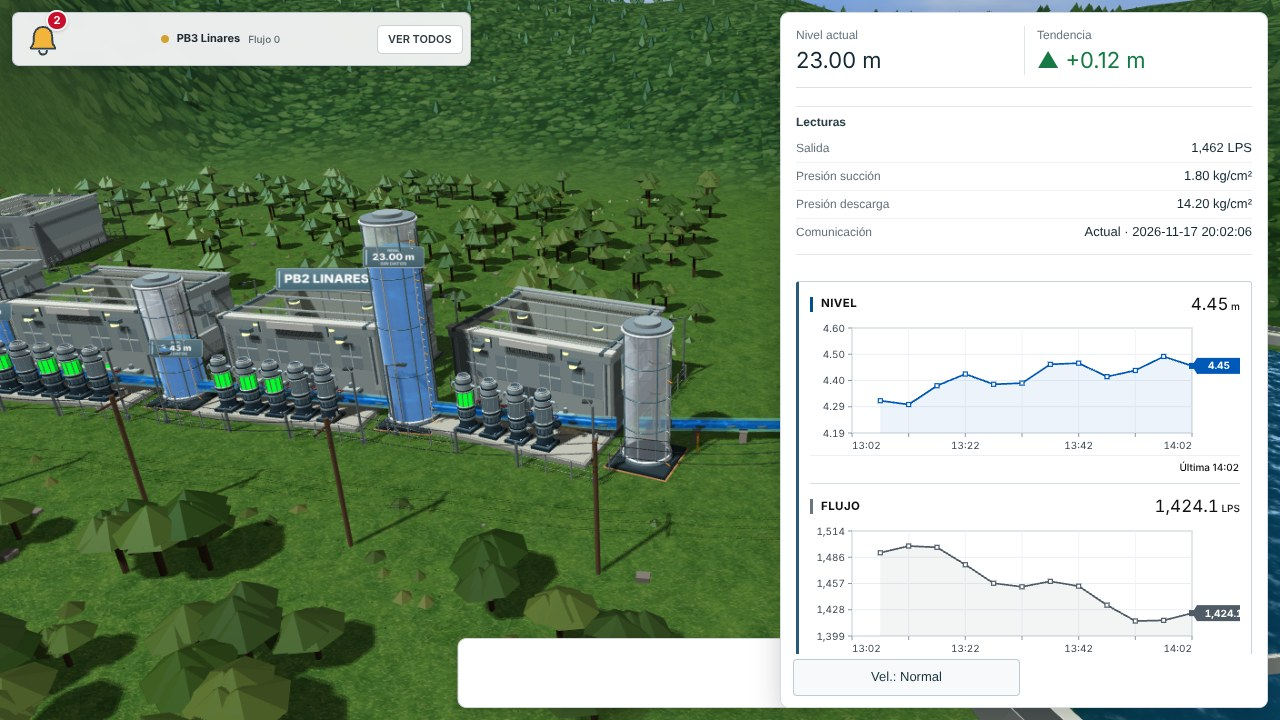
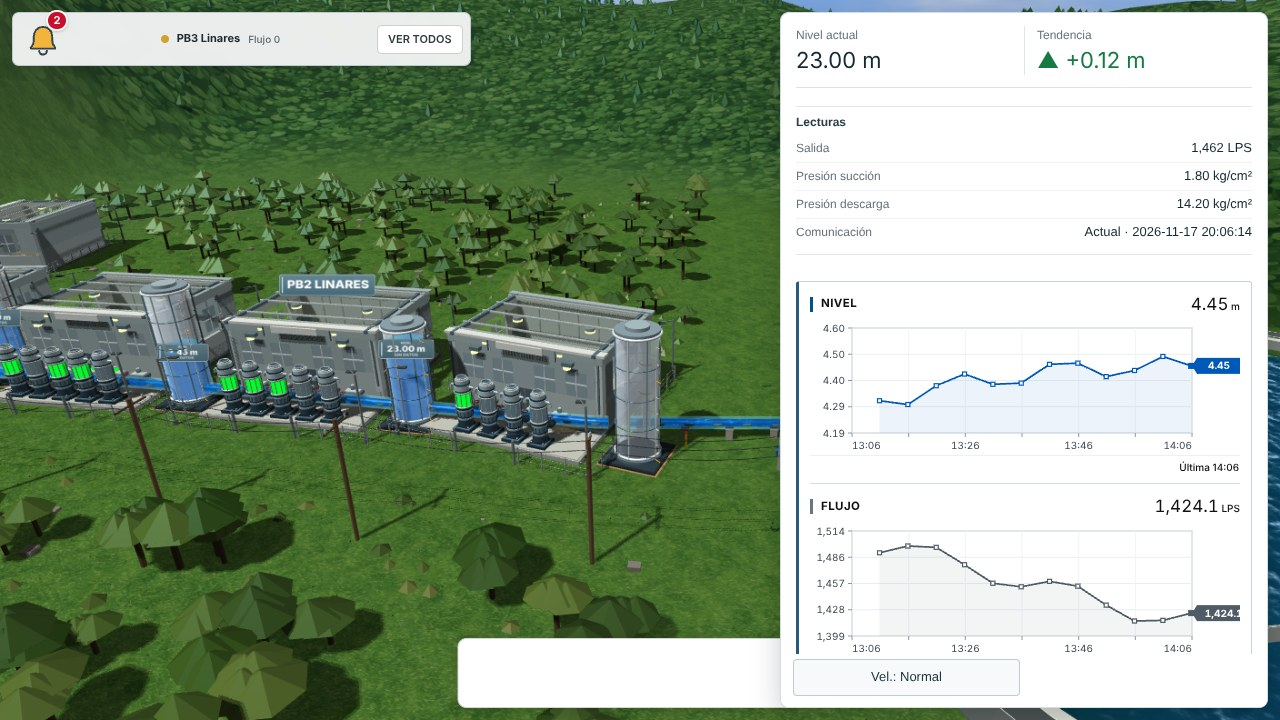
Linares 3D: tanque de PB2 a la mitad (6 m visual), regla cada 5 m
Claude-Session: https://claude.ai/code/session_011FB5um3d1YqJKD5tDG6dWP

diff --git a/propuesta-3d/codigo_pro/js/linares_3d.js b/propuesta-3d/codigo_pro/js/linares_3d.js
@@ -2036,8 +2036,8 @@ void main(){
   /* Escala real 1:1 (1 unidad = 1 m): la altura del agua dibujada es el nivel real en metros.
      [estación, código, id de nivel, altura del tanque en m] — PB2 reporta ~23 m, por eso su tanque es más alto */
   /* [estación, código, id de nivel, altura visual del tanque, capacidad real en m]. PB2 reporta ~23 m: se dibuja más bajo
-     (12 m) pero el agua y la regla siguen el valor real a escala reducida */
-  const MV_TALL = [['li01', 'LINPB001', 2, 7.4, 7.0], ['li02', 'LINPB002', 3, 12, 26], ['li02a', 'LINPB02A', 4, 7.4, 7.0], ['li03', 'LINPB003', 5, 7.4, 7.0], ['li04', 'LINPB004', 6, 7.4, 7.0]];
+     (6 m) pero el agua y la regla siguen el valor real a escala reducida */
+  const MV_TALL = [['li01', 'LINPB001', 2, 7.4, 7.0], ['li02', 'LINPB002', 3, 6, 26], ['li02a', 'LINPB02A', 4, 7.4, 7.0], ['li03', 'LINPB003', 5, 7.4, 7.0], ['li04', 'LINPB004', 6, 7.4, 7.0]];
   const MV_TALL_WATER = H => H - .4;
   const mvTallPos = new Map();
   function mvTallTank(cx, cz, lid, H, cap) {
@@ -2067,6 +2067,7 @@ void main(){
     bar([gx, .52, gz], [gx, .52 + mw, gz], .035, '#e8eef0', { seg: 6 });
     for (let m = 0; m <= Math.floor(cap); m++) {
       const big = m % 5 === 0, y = .52 + m * mw / cap, L = big ? .42 : .22;
+      if (!big && mw / cap < .35) continue; // tanque a escala reducida: solo marcas cada 5 m
       bar([gx, y, gz], [gx + L * .86, y, gz + L * .5], big ? .03 : .018, big ? '#ff9c2a' : '#ffffff', { seg: 5, em: .4 });
     }
   }
